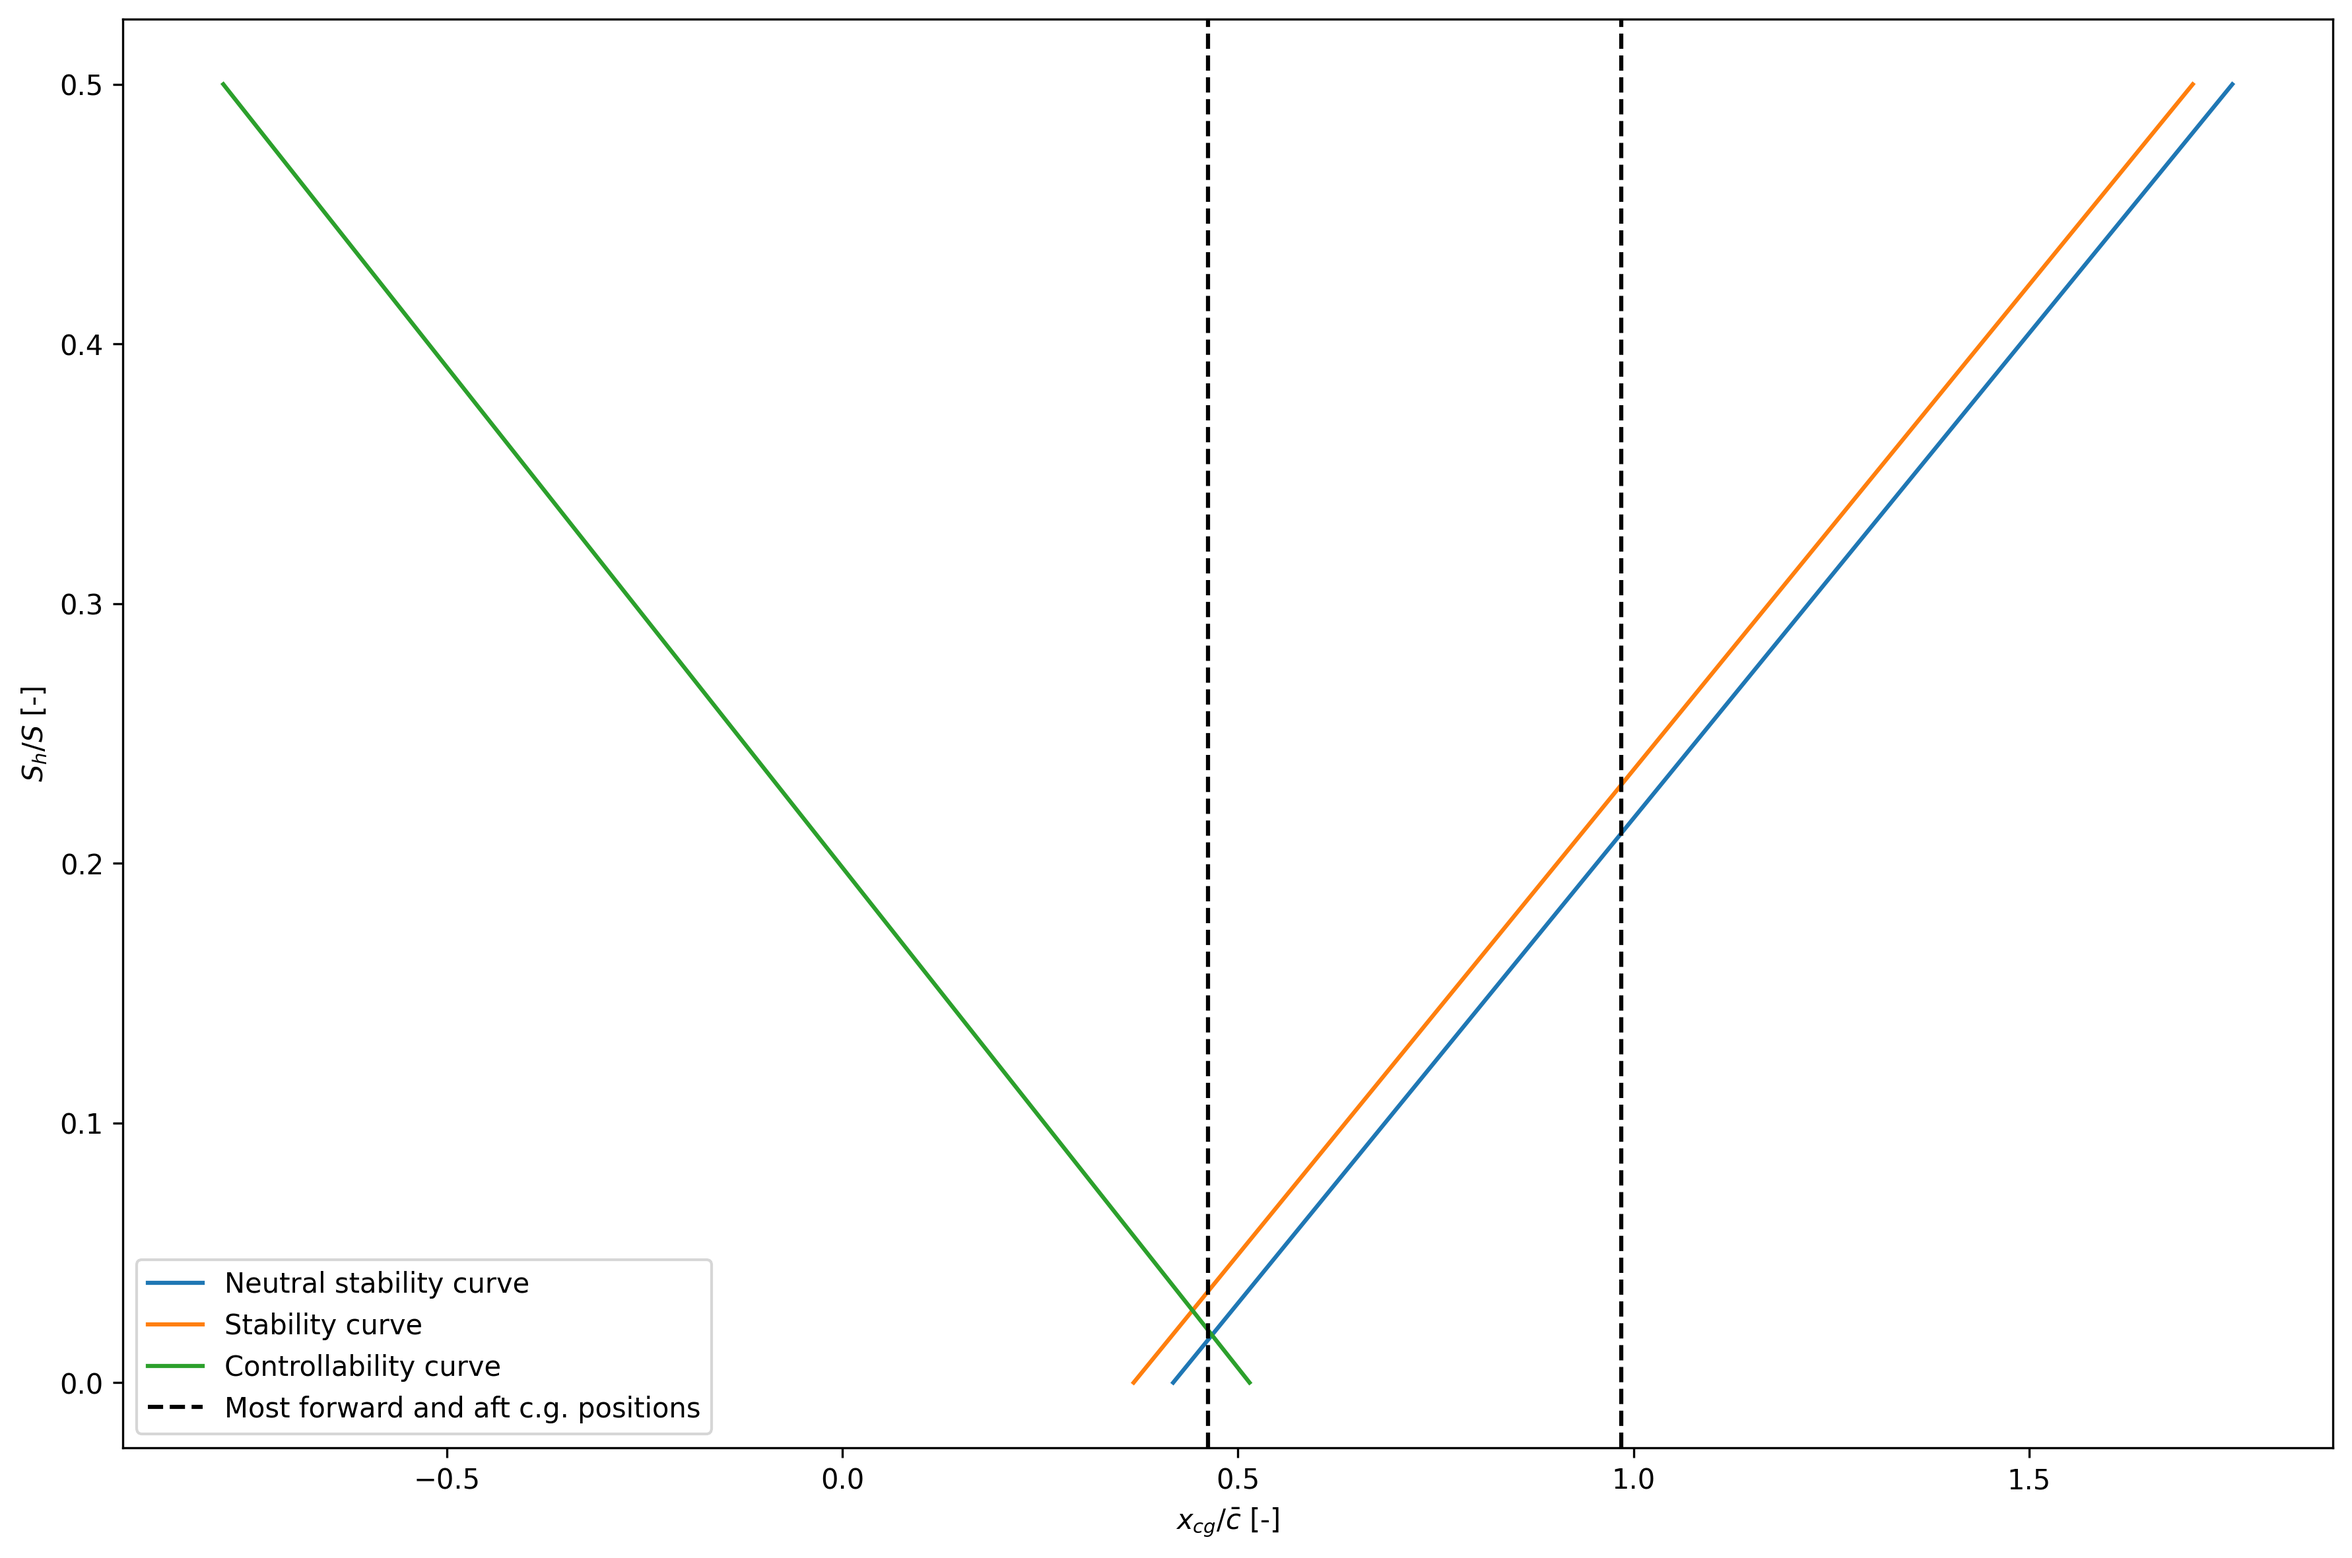
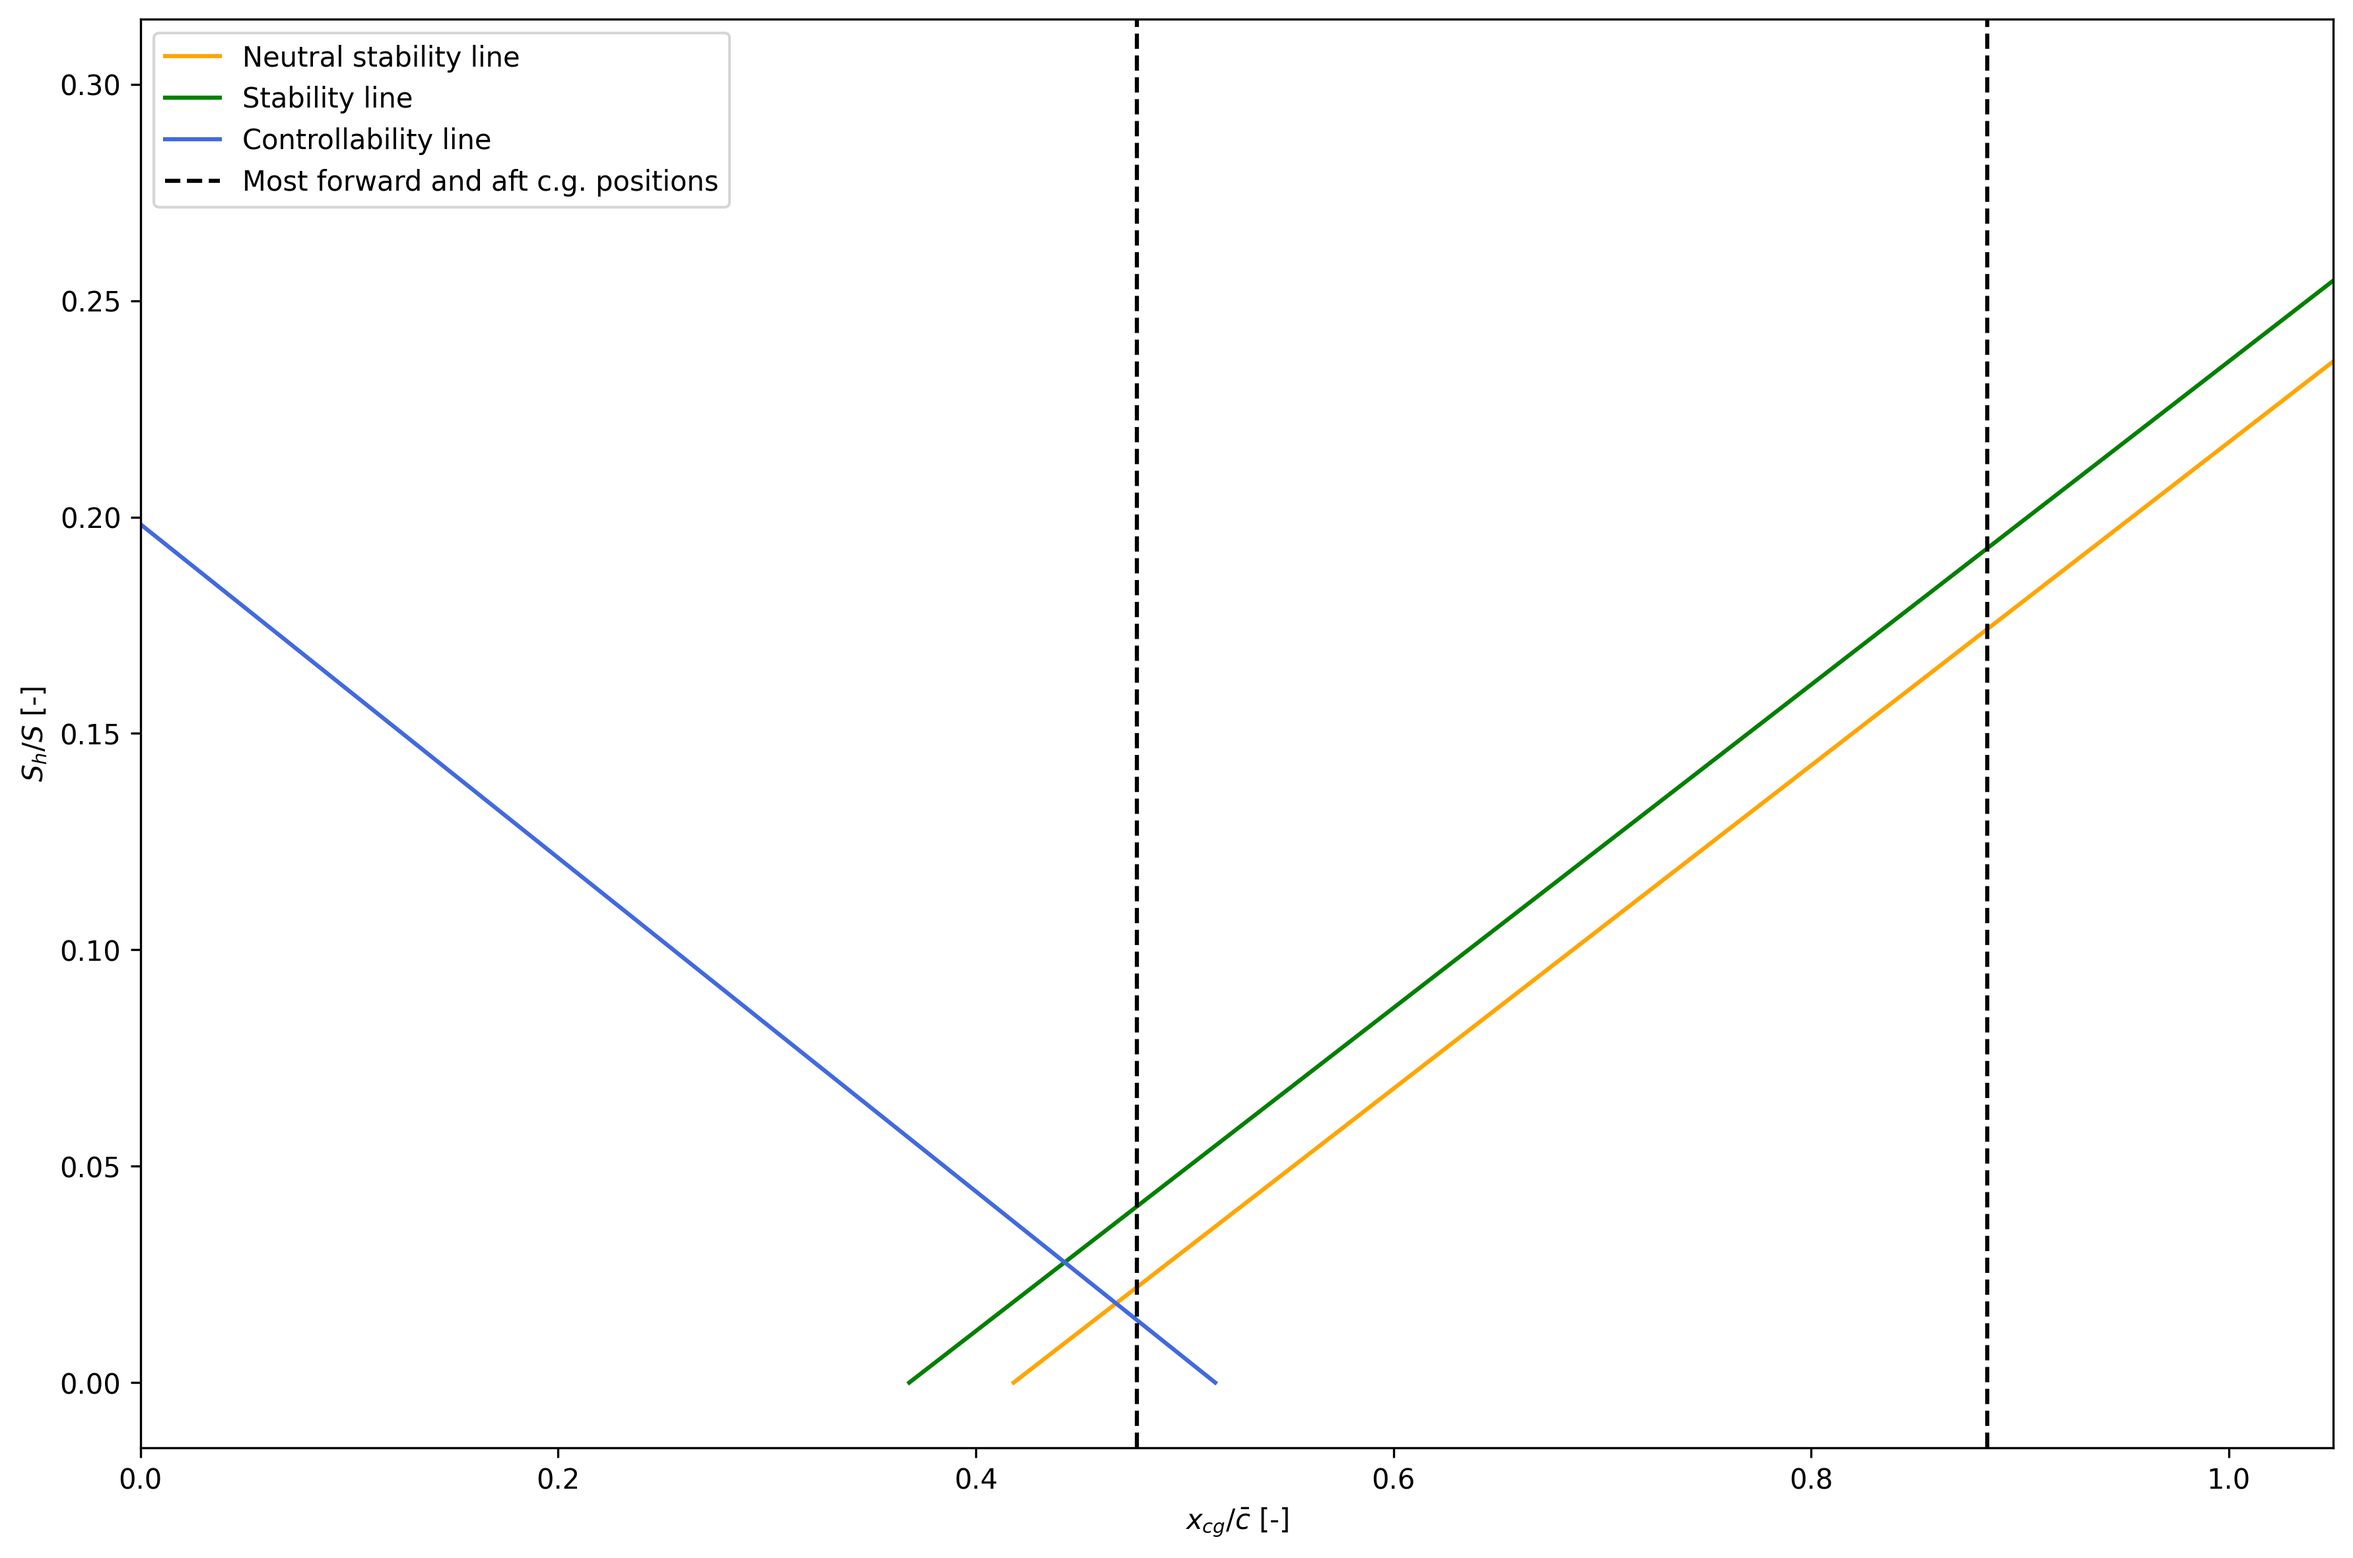
plots

diff --git a/scissor_plot.py b/scissor_plot.py
@@ -1,5 +1,7 @@
 from math import tan, radians, sqrt, pi, atan2, sin, cos
+from copy import copy
 import matplotlib.pyplot as plt
+from matplotlib.lines import Line2D
 from constants import G
 
 
@@ -63,14 +65,19 @@ def stability_line(
     stability_x_points = [x_ac - stability_margin, (max_Sh_S + stability_line_intercept) / slope]
     y_points = [0, max_Sh_S]
     # breakpoint()
-    ax.plot(neutral_x_points, y_points, label="Neutral stability curve")
-    ax.plot(stability_x_points, y_points, label="Stability curve")
+    # n_s_line, = ax.plot(neutral_x_points, y_points, label="Neutral stability curve")
+    # s_line, = ax.plot(stability_x_points, y_points, label="Stability curve")
+    n_s_line = Line2D(neutral_x_points, y_points, c="orange", label="Neutral stability line")
+    s_line = Line2D(stability_x_points, y_points, c="green", label="Stability line")
+    ax.add_line(copy(n_s_line))
+    ax.add_line(copy(s_line))
+    return n_s_line, s_line
 
 
 def controllability_line(
     ax, max_Sh_S, M, alpha_0_l, delta_alpha_0_l, C_m_0_airfoil, C_l_max, eta, S, S_prime, S_wf, c, b, b_f, h_f, l_f,
     l_h, x_ac, quarter_chord_sweep, half_chord_sweep, flap_hinge_sweep_angle, V_app, rho, W, Vh_V, c_prime, C_L_H, mu_1,
-    mu_2, mu_3,
+    mu_2, mu_3, flap_moment_multiplier,
 ):
     A = b**2 / S
     C_L_alpha_A_H = datcom(A, M, eta, half_chord_sweep)
@@ -89,7 +96,7 @@ def controllability_line(
     c_l = C_L - delta_f_c_l * (1 - S_wf / S)
     delta_f_c_m_1_4 = -mu_1 * delta_f_c_l * (c_prime / c) - c_l * (1/8) * (c_prime / c) * (c_prime / c - 1)
     delta_f_C_m_ac = mu_2 * delta_f_c_m_1_4 + 0.7 * A / (1 + 2/A) * mu_3 * delta_f_c_l * tan(quarter_chord_sweep)
-    C_m_ac = C_m_ac_w + delta_f_C_m_ac + delta_fus_C_m_ac + delta_nac_C_m_ac
+    C_m_ac = C_m_ac_w + flap_moment_multiplier * delta_f_C_m_ac + delta_fus_C_m_ac + delta_nac_C_m_ac
 
     delta_C_l_max = delta_f_c_l
     delta_C_L_max = 0.9 * delta_C_l_max * (S_wf / S) * cos(flap_hinge_sweep_angle)
@@ -105,7 +112,10 @@ def controllability_line(
     slope = 1 / denom
     x_points = [(max_Sh_S - intercept) / slope, -intercept / slope]
     y_points = [max_Sh_S, 0]
-    ax.plot(x_points, y_points, label="Controllability curve")
+    # c_line, = ax.plot(x_points, y_points, label="Controllability curve")
+    c_line = Line2D(x_points, y_points, c="royalblue", label="Controllability line")
+    ax.add_line(copy(c_line))
+    return c_line
 
 
 def scissor_plot(
@@ -113,11 +123,11 @@ def scissor_plot(
     taper_ratio, A_h, horizontal_stab_half_chord_sweep_deg, use_torenbeek_method, eta, l_h, delta_z_wing_tail_acs, b_f,
     h_f, l_fn, b_n, l_n, c_l_des, x_ac_w_cruise, k_n, Vh_V, stability_margin, V_app_kts, alpha_0_l, delta_alpha_0_l,
     C_m_0_airfoil, C_l_max, S_prime, S_wf, l_f, x_ac_w_landing, flap_hinge_sweep_deg, rho_landing, m_landing_kg,
-    delta_c_cf, cf, C_L_H, mu_1, mu_2, mu_3, min_cg_pos, max_cg_pos,
+    delta_c_cf, cf, C_L_H, mu_1, mu_2, mu_3, min_cg_pos, max_cg_pos, flap_moment_multiplier
 ):
     fig, ax = plt.subplots(figsize=(12, 8))
 
-    stability_line(
+    n_s_line, s_line = stability_line(
         ax,
         max_Sh_S,
         M_cruise,
@@ -146,7 +156,7 @@ def scissor_plot(
         stability_margin,
     )
 
-    controllability_line(
+    c_line = controllability_line(
         ax,
         max_Sh_S,
         V_app_kts * 1852/3600 / sqrt(1.4 * 287 * 288.15),
@@ -177,6 +187,7 @@ def scissor_plot(
         mu_1,
         mu_2,
         mu_3,
+        flap_moment_multiplier,
     )
 
     ax.axvline(min_cg_pos, c="k", linestyle="--", label="Most forward and aft c.g. positions")
@@ -185,17 +196,20 @@ def scissor_plot(
         ax.legend()
     ax.set_xlabel(r"$x_{cg}/\bar{c}$ [-]")
     ax.set_ylabel(r"$S_h/S$ [-]")
+    ax.autoscale()
+    ax.set_xlim(0, 1.05)
     fig.tight_layout()
 
     fig.savefig(filename, dpi=300, bbox_inches="tight")
     plt.show()
+    return n_s_line, s_line, c_line
 
 
 if __name__ == "__main__":
     reference_aircraft_config = {
         "filename": "ref_aircraft_scissor_plot",          # filename to save to
         "show_legend": True,                              # whether to show the legend
-        "max_Sh_S": 0.4,                                  # max Sh/S to plot
+        "max_Sh_S": 0.3,                                  # max Sh/S to plot
         "M_cruise": 0.7,                                  # cruise Mach number
         "S": 93.5,                                        # wing area in [m^2]
         "S_net": 81.1229,                                 # S less the projection of the wing in the fuselage [m^2]
@@ -238,7 +252,53 @@ if __name__ == "__main__":
         "mu_1": 0.12,                                     # from Torenbeek fig. G-15
         "mu_2": 0.78,                                     # from Torenbeek fig. G-16
         "mu_3": 0.0575,                                   # from Torenbeek fig. G-17
-        "min_cg_pos": 0.4619,
-        "max_cg_pos": 0.9845,
+        "min_cg_pos": 0.4770,                             # min cg pos (for plotting), [% MAC]
+        "max_cg_pos": 0.8842,                             # max cg pos (for plotting), [% MAC]
+        "flap_moment_multiplier": 1,                      # extra multiplier for flap moment [-]
     }
-    scissor_plot(**reference_aircraft_config)
+    ref_n_s_line, ref_s_line, ref_c_line = scissor_plot(**reference_aircraft_config)
+    
+    f120_config = reference_aircraft_config.copy()
+    f120_config["filename"] = "f120_scissor_plot"
+    f120_config["b_n"] *= 1.3
+    f120_config["min_cg_pos"] = 0.4617
+    f120_config["max_cg_pos"] = 0.9845
+    f120_config["flap_moment_multiplier"] = 1.2
+    f120_n_s_line, f120_s_line, f120_c_line = scissor_plot(**f120_config)
+
+    fig, ax = plt.subplots(figsize=(12, 8))
+
+    ref_n_s_line.set_label("F100 neutral stability line")
+    ref_s_line.set_label("F100 stability line")
+    ref_c_line.set_label("F100 controllability line")
+    f120_n_s_line.set_label("F120 neutral stability line")
+    f120_s_line.set_label("F120 stability line")
+    f120_c_line.set_label("F120 controllability line")
+
+    ref_n_s_line.set_color("chocolate")
+    f120_n_s_line.set_color("orange")
+    ref_s_line.set_color("forestgreen")
+    f120_s_line.set_color("limegreen")
+    ref_c_line.set_color("darkblue")
+    f120_c_line.set_color("cornflowerblue")
+
+    ax.add_line(ref_n_s_line)
+    ax.add_line(ref_s_line)
+    ax.add_line(ref_c_line)
+    ax.add_line(f120_n_s_line)
+    ax.add_line(f120_s_line)
+    ax.add_line(f120_c_line)
+    ax.axvline(reference_aircraft_config["min_cg_pos"], c="k", linestyle="--", label="F100 most forward and aft c.g. positions")
+    ax.axvline(reference_aircraft_config["max_cg_pos"], c="k", linestyle="--")
+    ax.axvline(f120_config["min_cg_pos"], c="slategray", linestyle="--", label="F120 most forward and aft c.g. positions")
+    ax.axvline(f120_config["max_cg_pos"], c="slategray", linestyle="--")
+
+    ax.set_xlabel(r"$x_{cg}/\bar{c}$ [-]")
+    ax.set_ylabel(r"$S_h/S$ [-]")
+    ax.autoscale()
+    ax.set_xlim(0, 1.05)
+    ax.legend()
+    fig.tight_layout()
+
+    fig.savefig("combined_scissor", dpi=300, bbox_inches="tight")
+    plt.show()
